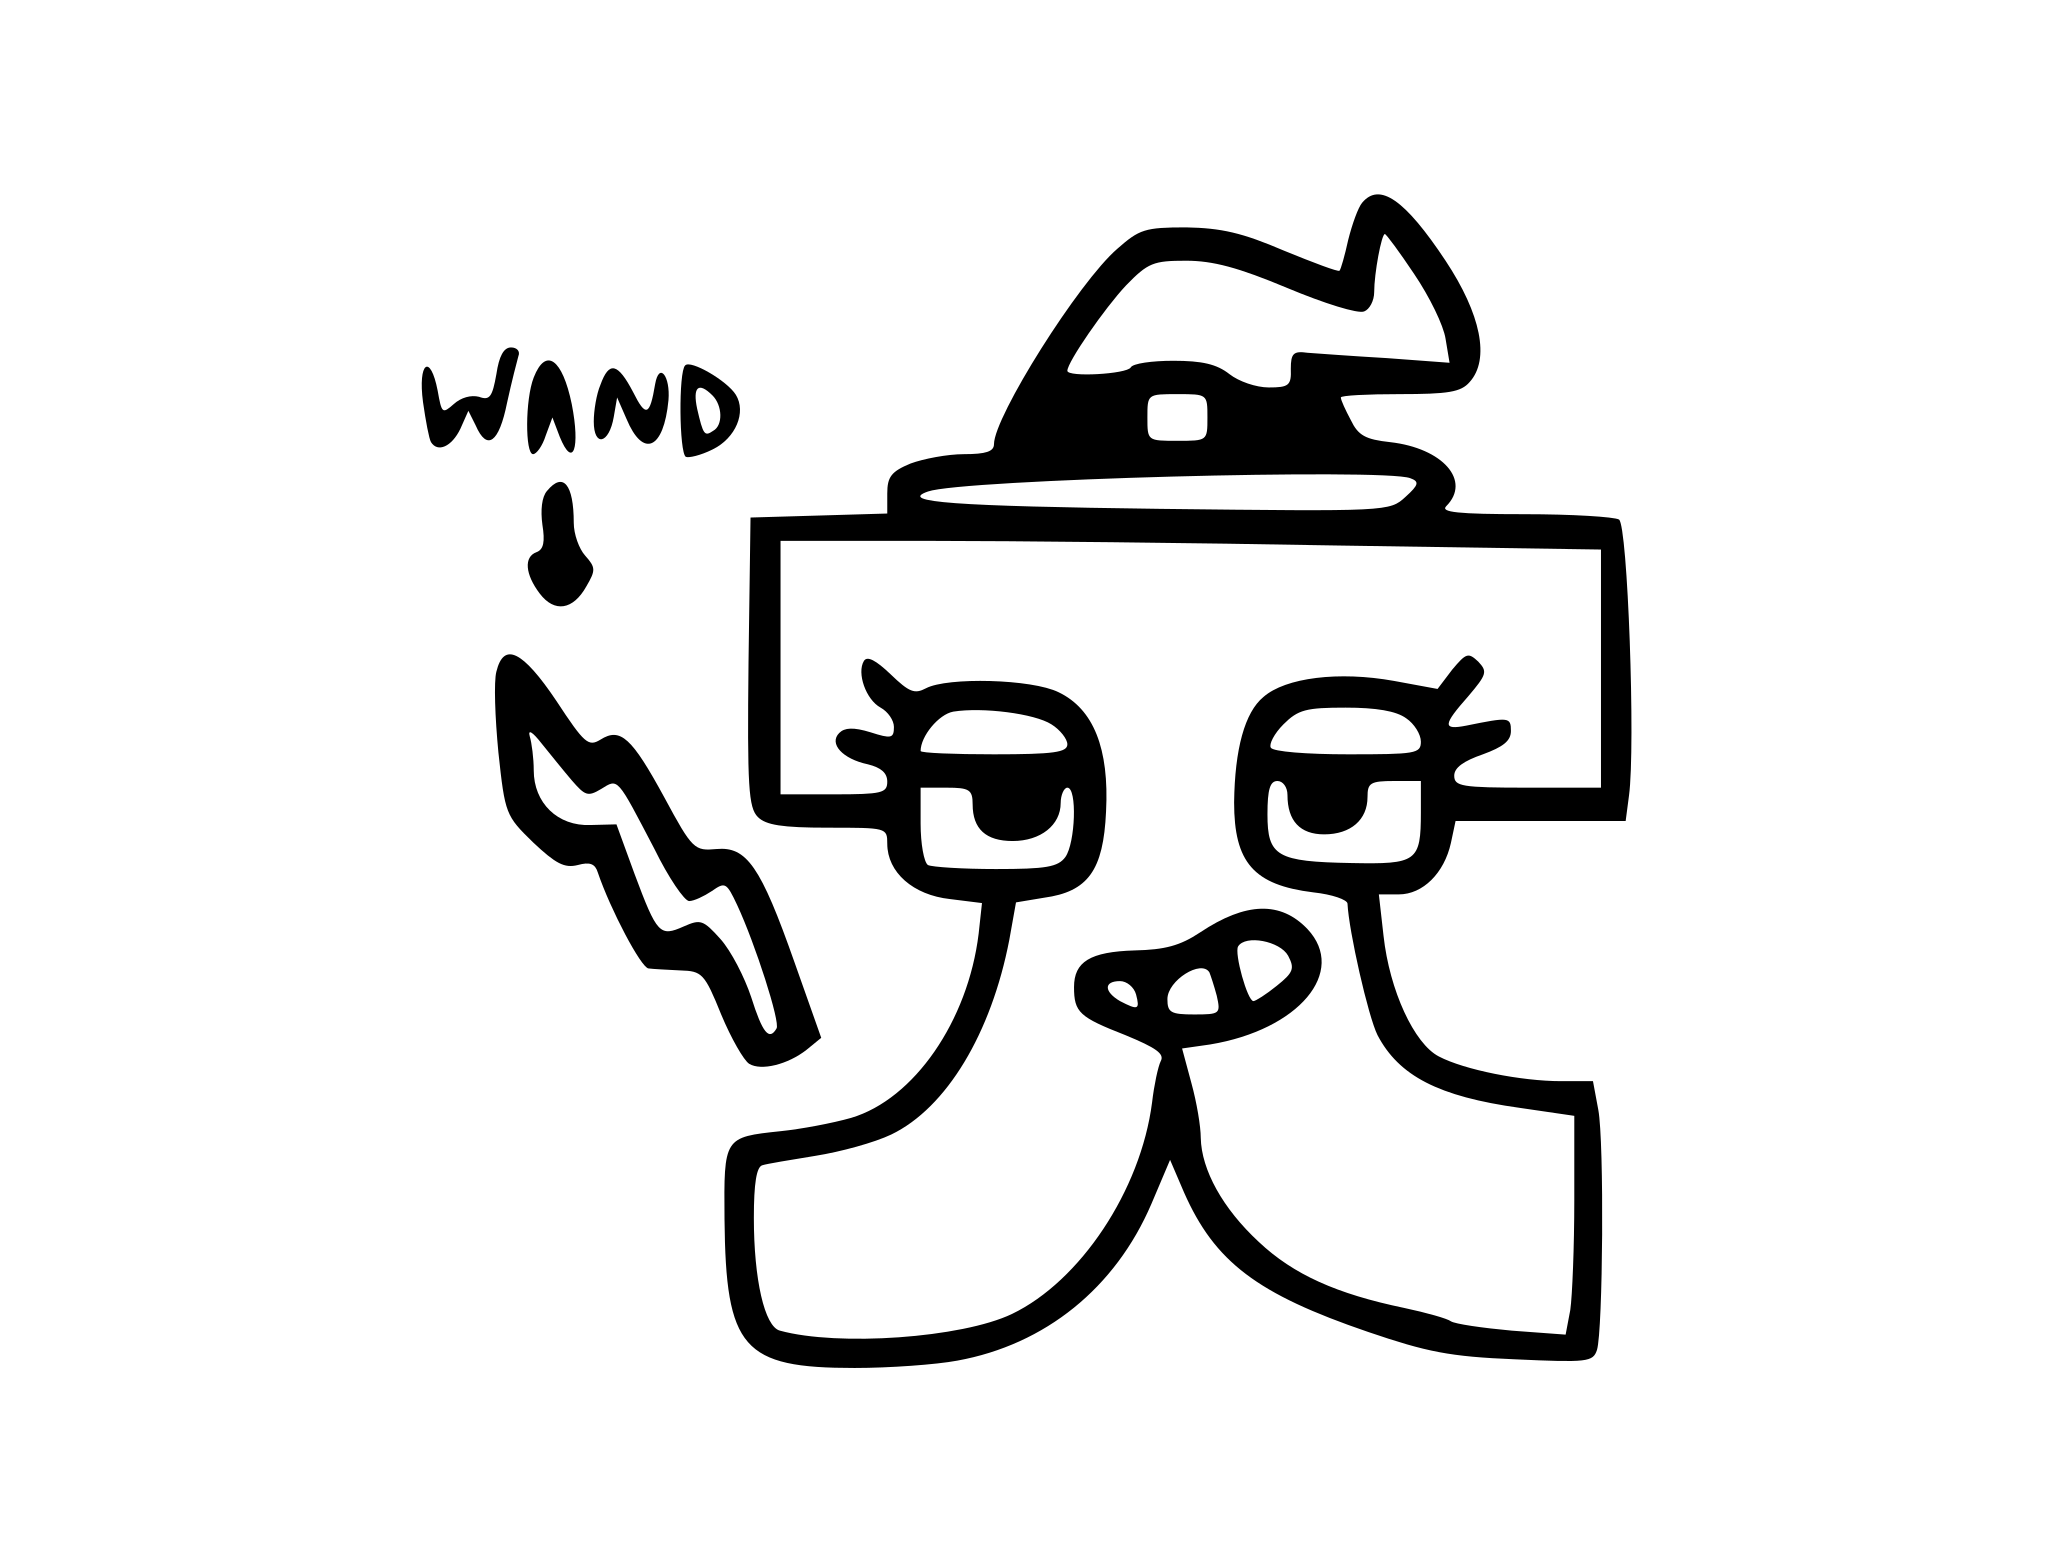
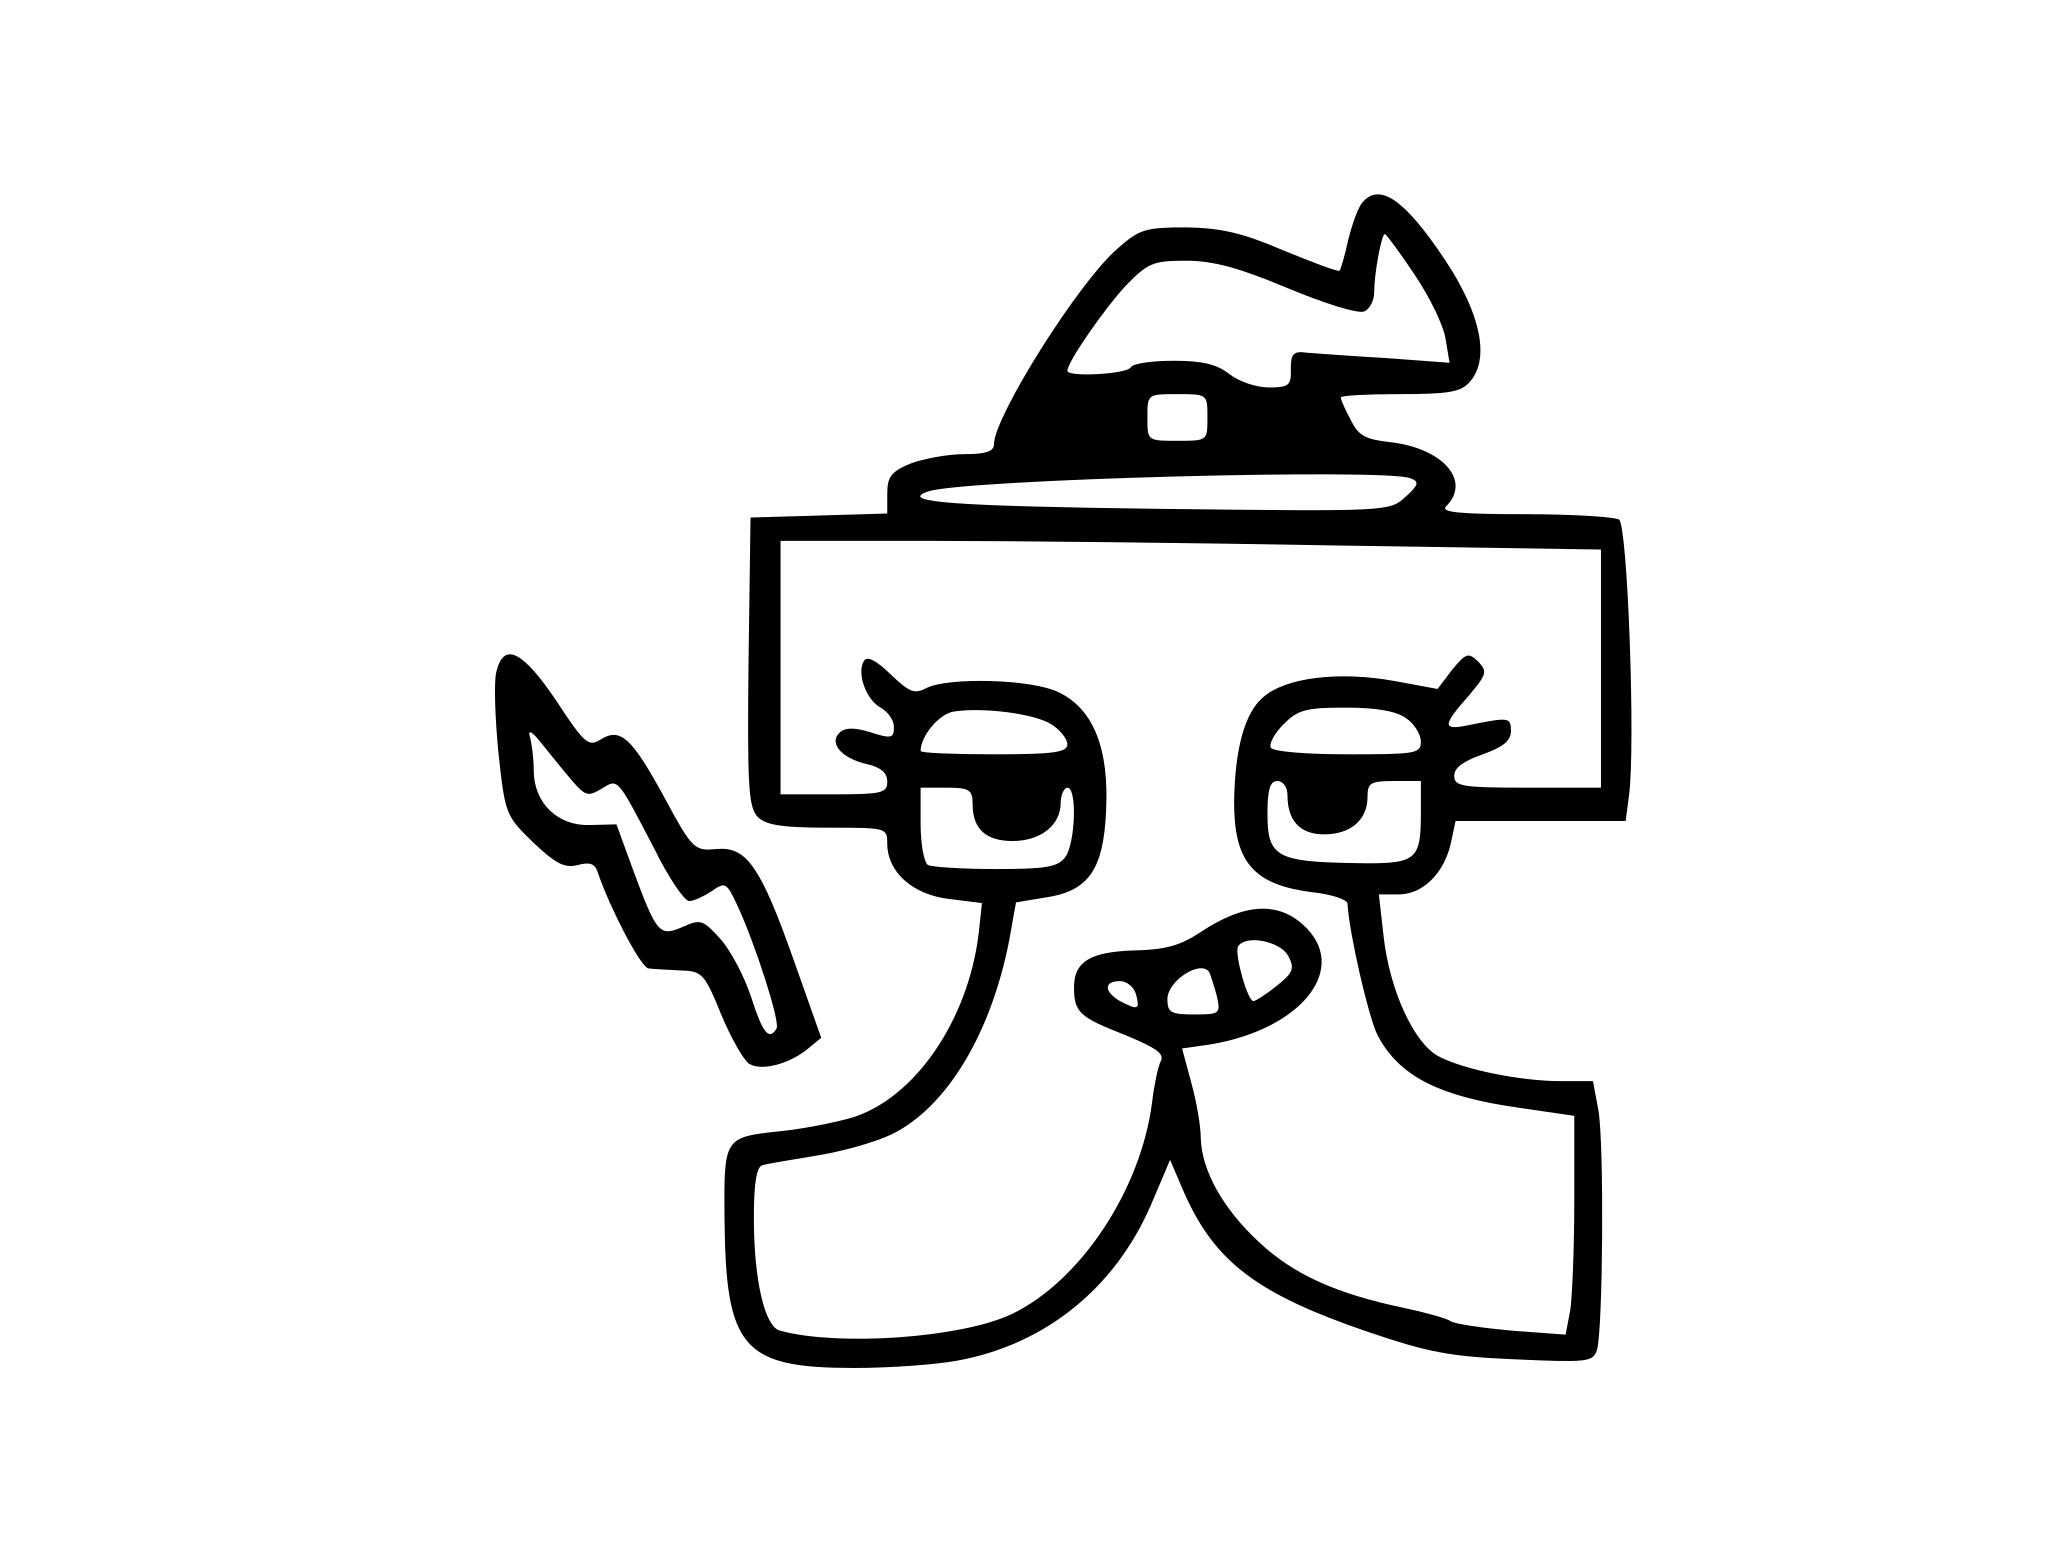
Drop two comic props from the traced art (ㅋ whoosh, ㅈ "WAND" + arrow)
Both sprites come with page decorations that are not part of the letter:
ㅋ has a loose whoosh above it and ㅈ has the word WAND with an arrow
pointing at the wand. The color sheet keeps them, so the crop, the
reconstruction proof and the reference sheet still hold, but the line art
should not.

No color or shape rule separates them: the text and the arrow are black
like the outline, and so is the wand, which stays. So the language config
now lists the boxes to drop (`drop` in LANGS) and the stroke mask zeroes
ink inside them. 223px in ㅋ and 445px in ㅈ; no letter ink is near the
boxes (verified zero ink within 2px), and the shared bbox does not move
(307x188 @ 1,24). ㅋ goes from 2 paths to 1, ㅈ from 7 to 2 (letter+hat
and the wand). Latin artifacts stay byte-identical; total coreano drops
to 2.29 MB.

Recorded in docs/decisoes.md D16, §8.2 and §8.3; before/after in
_qa/coreano/aderecos.png.

Changed region(s): [[0.1875, 0.2151, 0.375, 0.3995]]

diff --git a/docs/decisoes.md b/docs/decisoes.md
@@ -204,6 +204,7 @@ O pipeline nasceu para as 26 latinas, que já vêm em traço preto. Para outras 
 - **Traço = preto neutro**: o contorno é `#000000`/`#010101` e o preenchimento mais escuro começa em `#1a1621`, então **canal máximo ≤ 24** separa os dois com 9 níveis de folga. Pupilas, sobrancelhas e dentes continuam sólidos; corpos escuros (o sol `ㅇ`, `#1a1621`) viram contorno vazado, que é o que a criança pinta.
 - **Objeto desenhado só em cinza não vira traço: ele tapa a borda.** As latas do `ㅛ` não têm linha nenhuma e escondem a borda vertical do corpo, então as hastes da letra terminavam no ar. O pipeline desenha a **borda que faltava**: identifica o objeto exposto (cinza neutro, área ≥ 200 px, **fora** de área fechada por preto), traça uma reta de 5 px no lado voltado para o corpo ligando as duas pontas de traço existentes, e **apara** a sobra arredondada que passava por baixo dele. Cinza cercado por preto é sombra interna (olho do `ㅗ`, lente do `ㅟ`) e continua fora; a franja de antialiasing também.
 - **Junta de 1 px não sobrevive à vetorização.** Onde duas pontas de traço se tocam só na diagonal (o `ㄴ` na quina inferior esquerda), a máscara fica fechada mas o potrace lê 4-conexo e a suavização abre um buraco no render — o miolo vaza e o balde pinta a página. O sintoma é o próprio teste: só quando o miolo alcança a página é que o xadrez 2×2 da junta é preenchido.
+- **Adereço de folha de quadrinhos sai do traço por caixa declarada.** O "whoosh" do `ㅋ` e a palavra "WAND" + seta do `ㅈ` são pretos como o contorno, então não há regra que os separe — o config do idioma lista as caixas (`drop`) e só o traço as remove; o recorte colorido continua inteiro.
 - **Canvas uniforme** de mesma proporção das latinas (309 × 236 ↔ 329 × 251) → o resto do pipeline (`viewBox` compartilhado, 2048 × 1562, `region.png`, `thumb`) roda **sem nenhuma alteração**.
 - **Idioma é argumento**: `node scripts/build-assets.mjs [latin|coreano|all]`. Os artefatos são commitados como os latinos; CI continua sem potrace.
 - O coreano **não está na UI** ainda: `public/coreano/` existe, mas nenhuma tela o carrega. Detalhes e medições na seção 8.
@@ -453,6 +454,8 @@ O resultado preserva pupila, cílios, dentes e sobrancelhas, e transforma corpo 
 
 **A outra correção: fresta de 1 px na junta.** O traço é desenhado à mão e em alguns cantos as duas pontas se tocam **só na diagonal** — no `ㄴ`, a quina inferior esquerda. A máscara fica fechada em 8-conexidade, mas o potrace lê 4-conexo: um pescoço de 1 px não sobrevive à suavização e o render abre um buraco, por onde o balde vazava (a maior região pintável da letra era 0,2% do canvas). O sintoma que identifica o defeito é o **miolo da letra alcançar a página**; só nesse caso o pipeline fecha o **xadrez** (bloco 2×2 com tinta na diagonal e fundo na outra) que segura o miolo, virando as duas casas vazias em tinta. São **2 px no `ㄴ`**, o resto da folha não muda, e a maior região da letra passou a 9% do canvas.
 
+**Adereços que não são a letra.** Duas letras vêm com enfeite de folha de quadrinhos: o `ㅋ` tem um "whoosh" solto acima e o `ㅈ` tem a palavra **"WAND"** com uma seta apontando para a varinha. O recorte mantém (a prova de recorte e a conferência continuam valendo), mas o traço não: eles são removidos por **caixas declaradas no config do idioma** (`drop` em `LANGS`), porque nenhuma regra de cor ou forma separa a legenda do desenho — a seta e a palavra são pretas como o contorno, e a varinha (que fica) também. São 223 px no `ㅋ` e 445 px no `ㅈ`; nenhuma tinta da letra é tocada (verificado: zero tinta a até 2 px das caixas).
+
 Recortes coloridos para conferência em `_qa/coreano/conferencia.png`; traço final em `_qa/coreano/prancha.png`.
 
 ### 8.3 Medições
@@ -463,11 +466,12 @@ Recortes coloridos para conferência em `_qa/coreano/conferencia.png`; traço fi
 | canvas do recorte | 309 × 236 (mesma proporção das latinas, 1,309:1) |
 | bbox compartilhado | 307 × 188 @ (1, 24) |
 | tinta renderizada | **2048 × 1254** (fator 6,67×), centrada em 2048 × 1562 |
-| peso de `public/coreano/` | **2,30 MB** (40 letras, 4 arquivos cada; média 59 KB) |
+| peso de `public/coreano/` | **2,29 MB** (40 letras, 4 arquivos cada; média 59 KB) |
 | paths por letra | 1 a 12 (mediana 2) |
 | regiões por letra | 4 a 20 (1 a 10 pintáveis, isto é, que não encostam na borda) |
 | maior região pintável | **1,9% a 14,4%** do canvas (a menor era 0,2% no `ㄴ` antes de fechar a fresta da quina) |
 | traço extraído × original | 0,000% de tinta perdida no recorte; olhos e dentes preservados |
+| adereços fora do traço | `ㅋ`: "whoosh" acima da letra (223 px); `ㅈ`: palavra "WAND" e seta (445 px, a varinha fica) |
 | objetos em cinza (sem contorno) | latas do `ㅛ`: a letra é fechada com uma reta no lugar da borda que a lata escondia (344 px desenhados, 116 px de sobra aparada); brilho da lente do `ㅟ` fica fora por ser sombra interna |
 
 ### 8.4 O que muda quando o coreano entrar na UI
